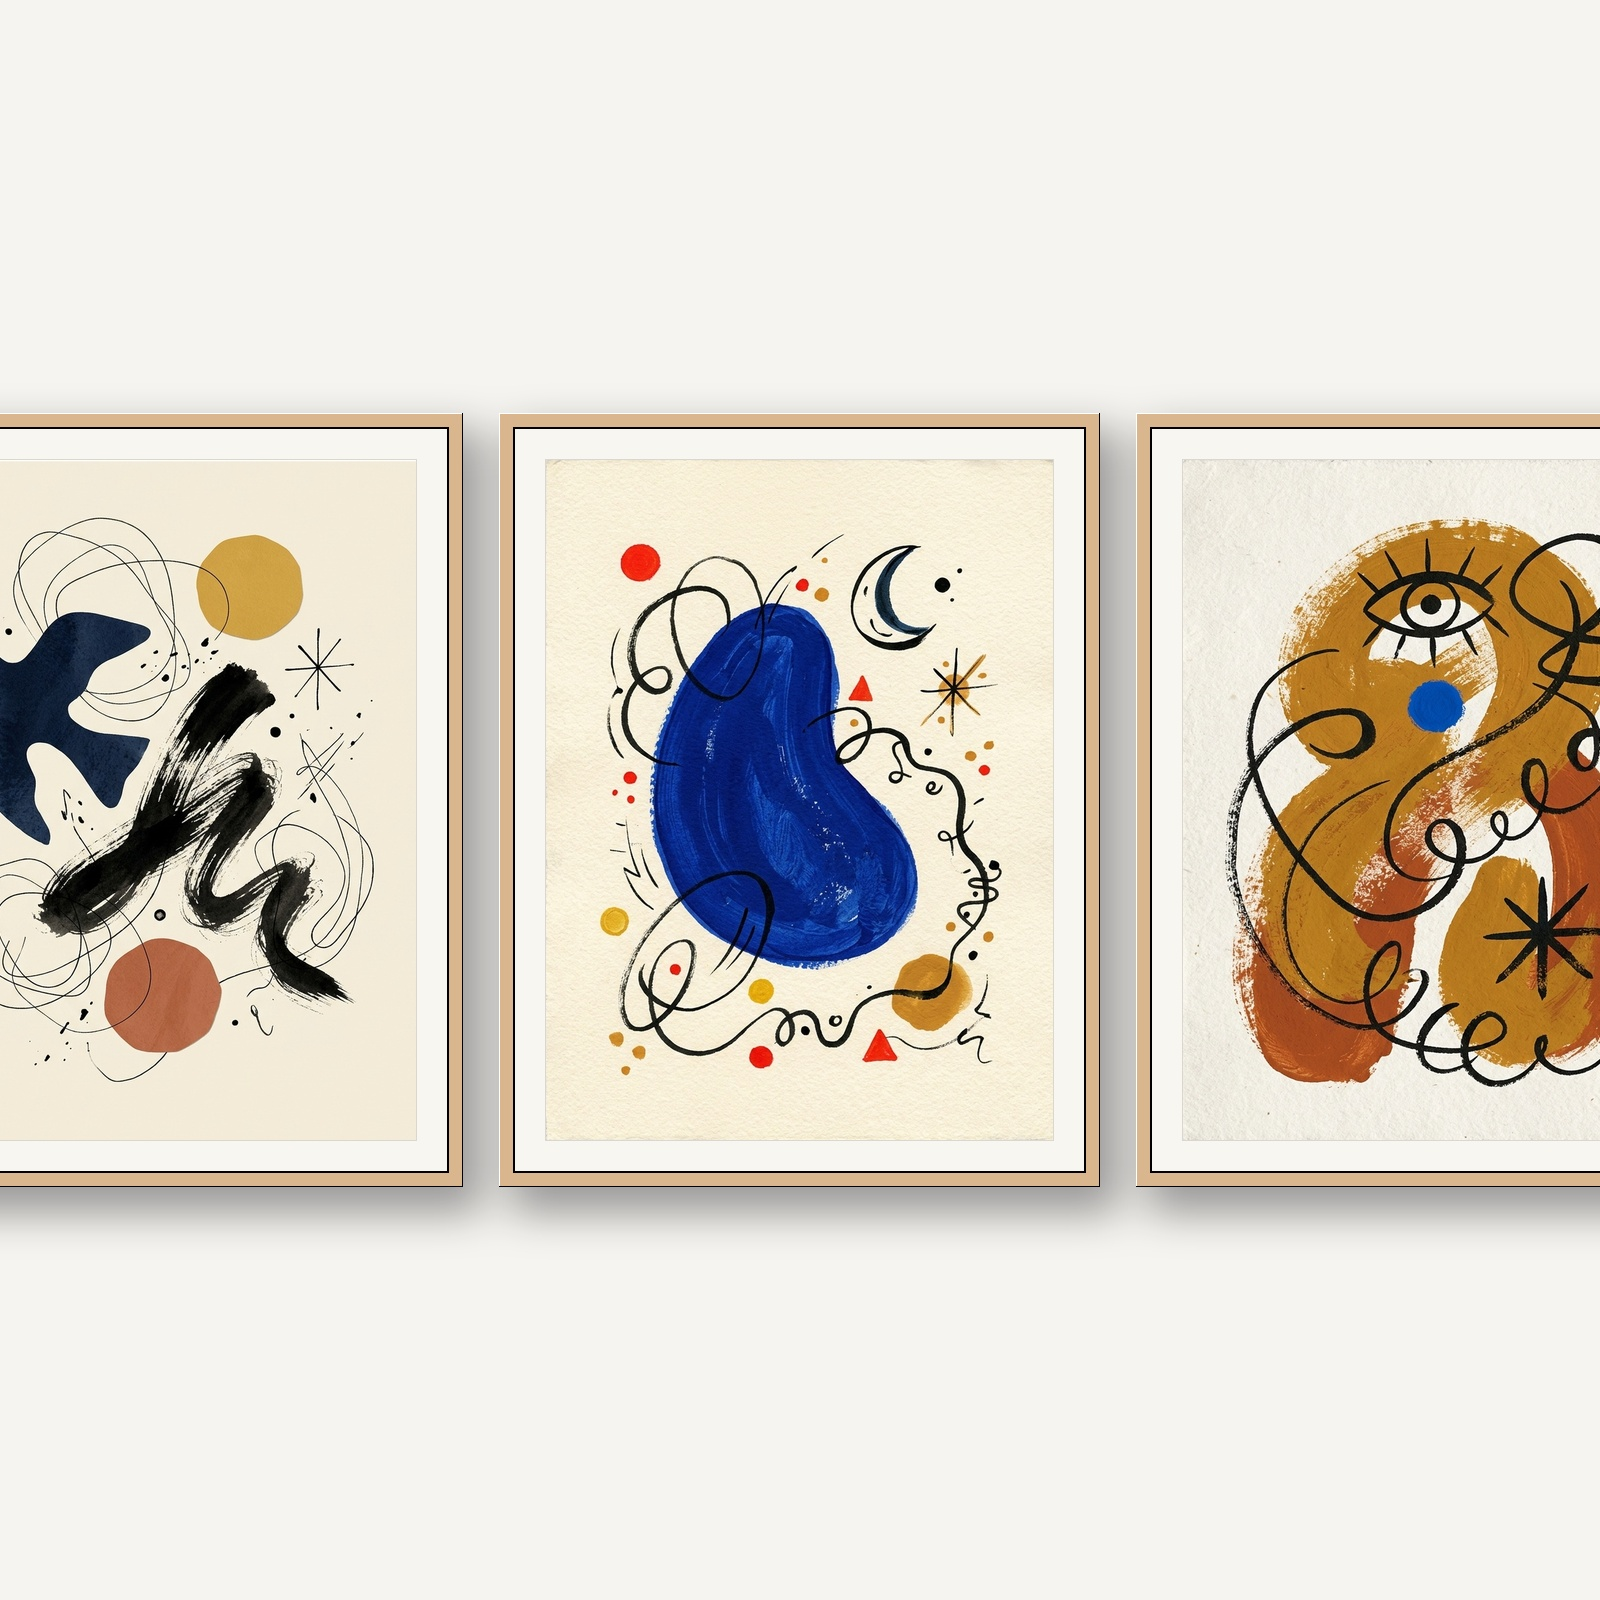
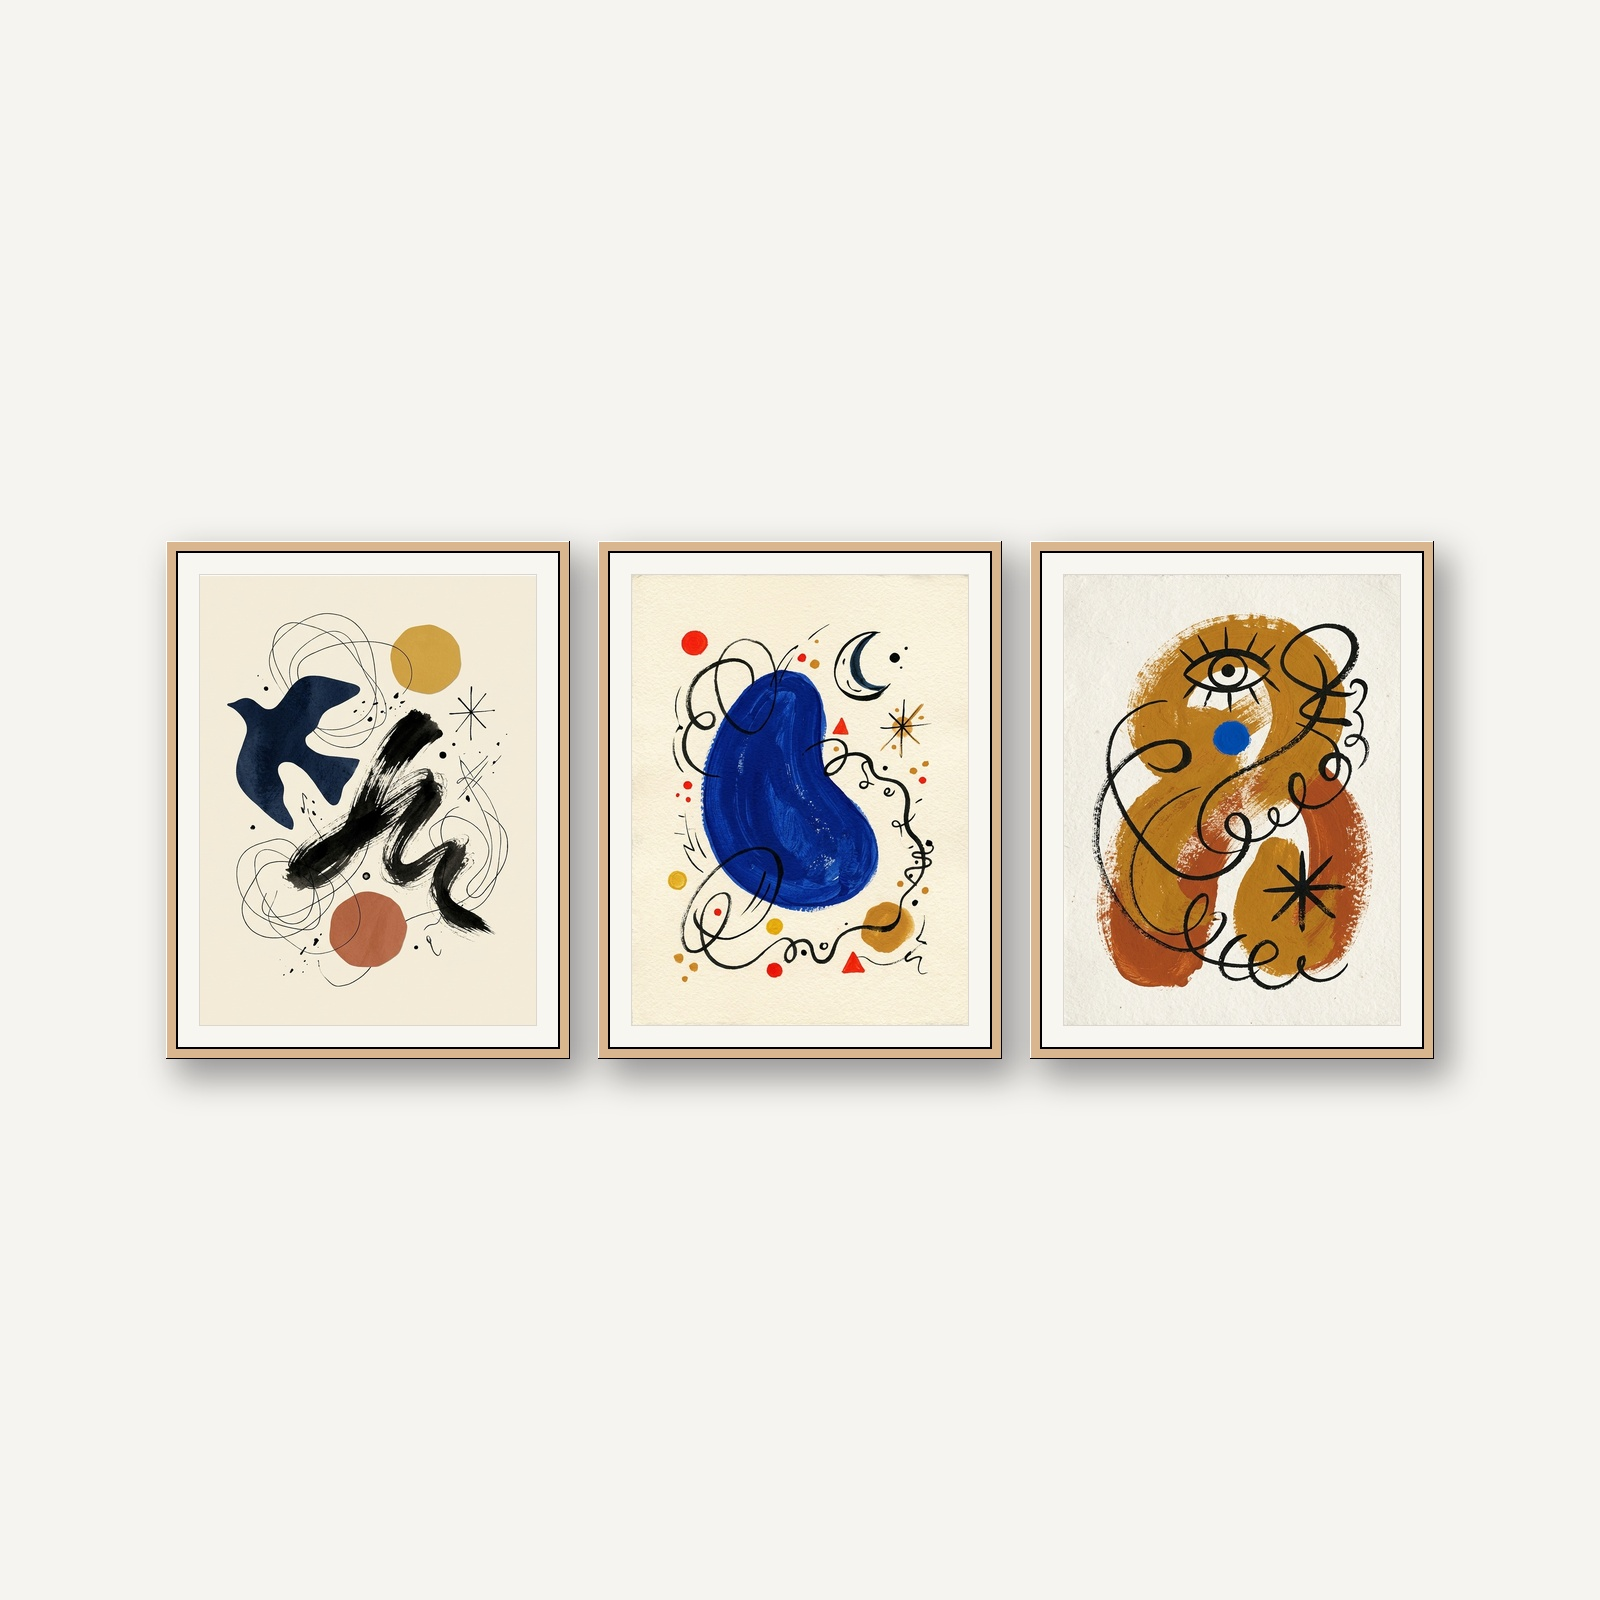
Auto-fit multi-piece studio frames with balanced margins and update bundle mockups

diff --git a/scripts/maintenance/import_formes_et_signes.py b/scripts/maintenance/import_formes_et_signes.py
@@ -242,9 +242,9 @@ def create_multi_piece_framed_shot(arts: list, frame_type: str, cfg: dict) -> Im
     scene = Image.new("RGB", (canvas_w, canvas_h), (246, 244, 240))
     n = len(arts)
     
-    target_art_h = 780 if n == 2 else 680
-    scale_ratio = 1.0 if n == 2 else 0.85
-    gap = 48 if n == 2 else 36
+    target_art_h = 620 if n == 2 else 450
+    scale_ratio = 0.85 if n == 2 else 0.62
+    gap = 40 if n == 2 else 28
 
     framed_pieces = []
     for art in arts:
@@ -256,6 +256,13 @@ def create_multi_piece_framed_shot(arts: list, frame_type: str, cfg: dict) -> Im
 
     piece_w, piece_h = framed_pieces[0].size
     total_w = (piece_w * n) + (gap * (n - 1))
+
+    if total_w > 1380:
+        fit = 1380.0 / total_w
+        framed_pieces = [p.resize((int(piece_w * fit), int(piece_h * fit)), Image.Resampling.LANCZOS) for p in framed_pieces]
+        piece_w, piece_h = framed_pieces[0].size
+        total_w = (piece_w * n) + (gap * (n - 1))
+
     start_x = (canvas_w - total_w) // 2
     start_y = (canvas_h - piece_h) // 2
 
@@ -264,9 +271,9 @@ def create_multi_piece_framed_shot(arts: list, frame_type: str, cfg: dict) -> Im
     for i in range(n):
         px = start_x + i * (piece_w + gap)
         py = start_y
-        s_draw.rectangle([px + 12, py + 18, px + piece_w + 18, py + piece_h + 24], fill=(20, 20, 25, 105))
+        s_draw.rectangle([px + 10, py + 14, px + piece_w + 14, py + piece_h + 18], fill=(20, 20, 25, 105))
     
-    shadow = shadow.filter(ImageFilter.GaussianBlur(20))
+    shadow = shadow.filter(ImageFilter.GaussianBlur(16))
     scene.paste(shadow, (0, 0), shadow)
 
     for i, piece in enumerate(framed_pieces):
